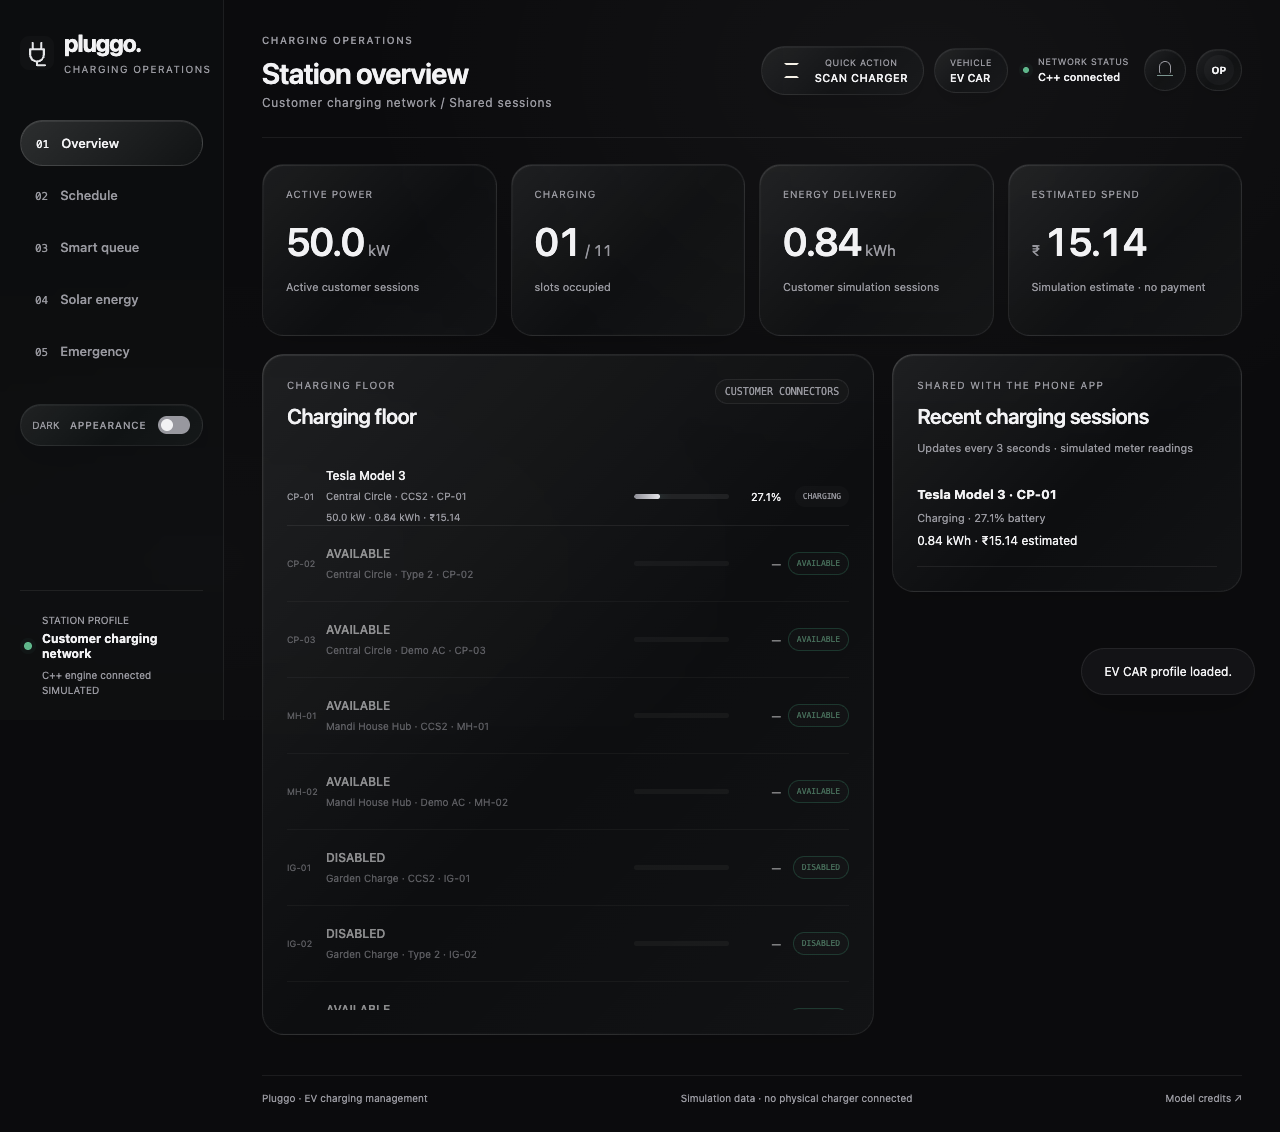
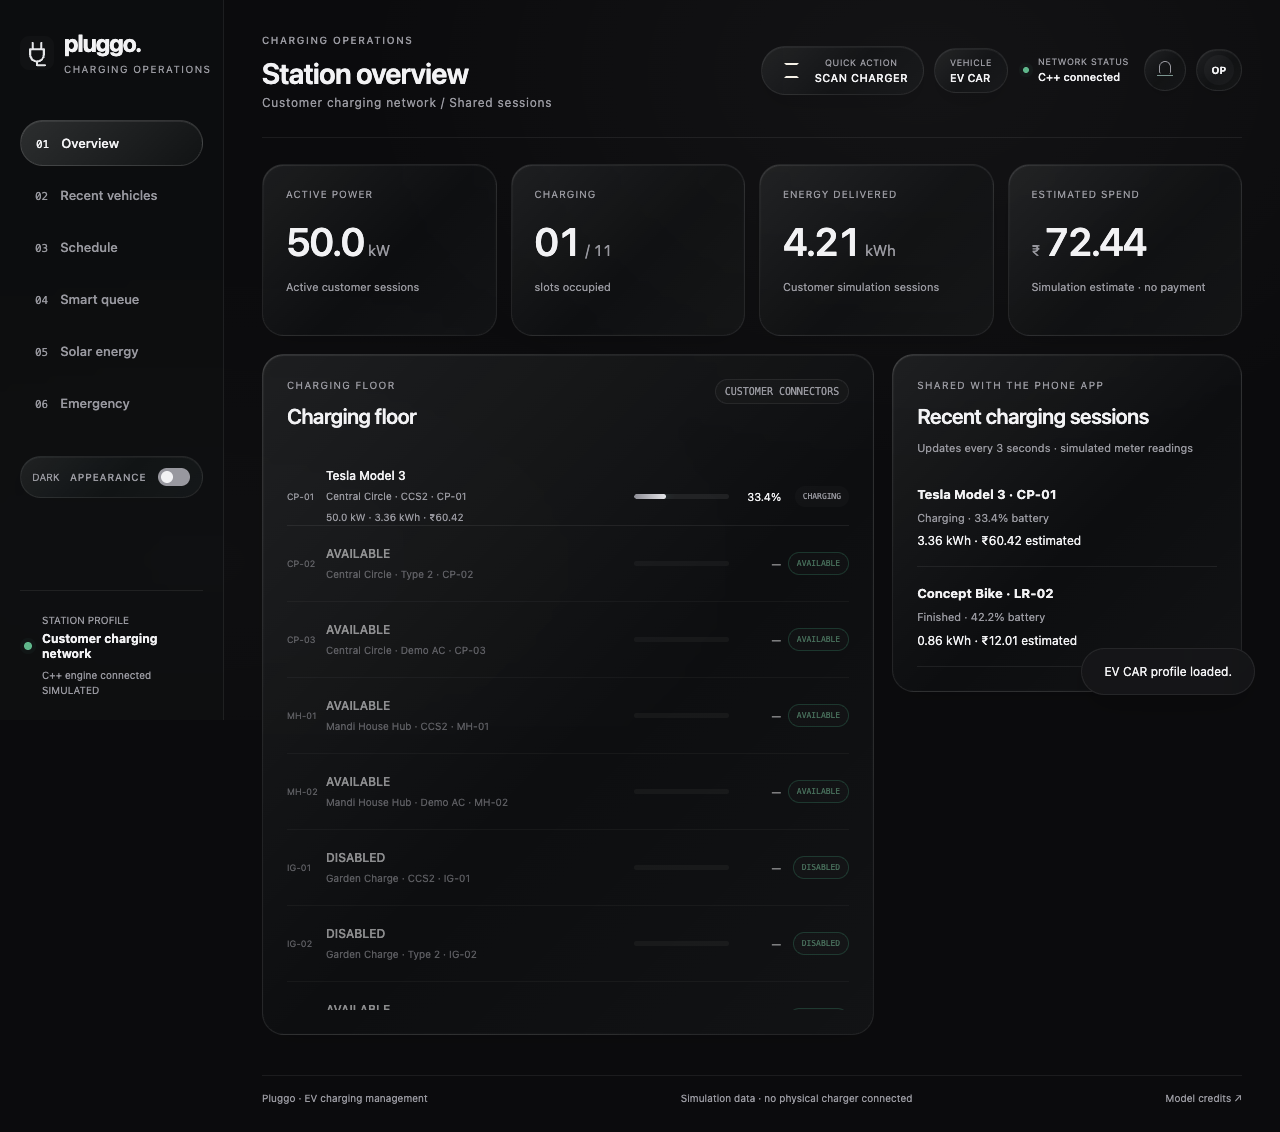
Add recent vehicles navigation and detailed charging history

diff --git a/frontend/portal.js b/frontend/portal.js
@@ -115,7 +115,21 @@ function renderSlots(slots) {
     </div>`;
   }).join("");
 }
+let recentVehicleData = {recentSessions:[],slots:[]};
+function renderRecentVehicles() {
+  const filter = $("#recentVehicleFilter").value;
+  const sessions = (recentVehicleData.recentSessions||[]).filter(s=>filter==="all"||(filter==="finished"?Boolean(s.ended):!s.ended));
+  $("#recentVehicleCount").textContent = `${sessions.length} session${sessions.length===1?"":"s"}`;
+  const time = value => value ? new Date(value).toLocaleString("en-IN",{day:"numeric",month:"short",hour:"2-digit",minute:"2-digit"}) : "In progress";
+  $("#recentVehicleList").innerHTML = sessions.map(s=>{
+    const station=(recentVehicleData.slots||[]).find(c=>c.id===s.connector)?.stationName||s.station;
+    const duration=Math.max(0,Math.round(((s.ended||Date.now())-s.started)/1000));
+    return `<article class="card recent-vehicle-card"><div class="card-heading"><div><p class="eyebrow">${escapeHTML(station)}</p><h2>${escapeHTML(s.vehicleName||s.vehicle)}</h2></div><span class="tag">${s.ended?"FINISHED":"CHARGING"}</span></div><p class="recent-session-id">${escapeHTML(s.id)}</p><dl class="recent-vehicle-details"><div><dt>Connector</dt><dd>${escapeHTML(s.connector)}</dd></div><div><dt>Battery level</dt><dd>${Number(s.currentSoc).toFixed(1)}% / ${Number(s.target)}% target</dd></div><div><dt>Energy delivered</dt><dd>${Number(s.energy).toFixed(2)} kWh</dd></div><div><dt>Estimated cost</dt><dd>₹${Number(s.cost).toFixed(2)}</dd></div><div><dt>Charging power</dt><dd>${Number(s.power).toFixed(1)} kW</dd></div><div><dt>Tariff</dt><dd>₹${Number(s.rate).toFixed(2)}/kWh</dd></div><div><dt>Started</dt><dd>${escapeHTML(time(s.started))}</dd></div><div><dt>Ended</dt><dd>${escapeHTML(time(s.ended))}</dd></div><div><dt>Elapsed time</dt><dd>${Math.floor(duration/60)}m ${duration%60}s</dd></div><div><dt>Receipt</dt><dd>${s.settled?"Checkout completed":"Not checked out"}</dd></div></dl><p class="session-sync-note">${escapeHTML(s.reason||"Charging in progress")} · Simulated charging; no payment collected.</p></article>`;
+  }).join("")||`<article class="card"><p class="queue-empty">${filter==="finished"?"No finished charging sessions yet.":filter==="active"?"No vehicles are currently charging.":"No recent vehicles yet. Start a session in the connected phone app."}</p></article>`;
+}
+$("#recentVehicleFilter").addEventListener("change",renderRecentVehicles);
 function renderStation(data) {
+  recentVehicleData=data;renderRecentVehicles();
   renderSlots(data.slots);
   $("#activePower").textContent = data.activePowerKW.toFixed(1);
   $("#energyDelivered").textContent = Number(data.energyKWh||0).toFixed(2);
@@ -157,7 +171,7 @@ $$('.nav-item').forEach(button => button.addEventListener('click', () => {
   $$('.panel').forEach(panel => panel.classList.remove('active-panel'));
   button.classList.add('active');
   $(`#${button.dataset.target}`).classList.add('active-panel');
-  const titles = { overview:"Station overview", schedule:"Charging planner", queue:"Smart waiting queue", energy:"Solar energy studio", emergency:"Emergency control" };
+  const titles = { overview:"Station overview", recent:"Recent vehicles", schedule:"Charging planner", queue:"Smart waiting queue", energy:"Solar energy studio", emergency:"Emergency control" };
   $("#currentViewTitle").textContent = titles[button.dataset.target] || "Operations center";
   $$('.nav-item').forEach(item => item.setAttribute("aria-current",item === button ? "page" : "false"));
   history.replaceState(null,"",`#${button.dataset.target}`);
@@ -363,7 +377,7 @@ $("#emergencyForm").addEventListener("submit",async event=>{
 $("#dismissBanner").addEventListener("click",()=>$("#emergencyBanner").classList.remove("active"));
 
 const initialPanel = location.hash.slice(1);
-const initialButton = document.querySelector(`.nav-item[data-target="${["overview","schedule","queue","energy","emergency"].includes(initialPanel) ? initialPanel : "overview"}"]`);
+const initialButton = document.querySelector(`.nav-item[data-target="${["overview","recent","schedule","queue","energy","emergency"].includes(initialPanel) ? initialPanel : "overview"}"]`);
 initialButton?.click();
 updateClock(); setInterval(()=>{if(!document.hidden)updateClock();},1000); previewSolar();
 Promise.all([api.health(),api.station(),api.queue()]).then(([_,station,queue])=>{setApiStatus(true);renderStation(station);renderQueue(queue.items);}).catch(()=>{setApiStatus(false);renderSlots(fallback.slots);renderQueue(fallback.queue);});

diff --git a/frontend/operator.html b/frontend/operator.html
@@ -9,7 +9,7 @@
   <link rel="stylesheet" href="styles.css">
   <link rel="stylesheet" href="theme.css">
   <link rel="stylesheet" href="portal.css">
-  <link rel="stylesheet" href="dashboard.css?v=20261104-sharedsessions">
+  <link rel="stylesheet" href="dashboard.css?v=20261104-recentvehicles">
   <link rel="icon" href="assets/pluggo.svg" type="image/svg+xml">
 </head>
 <body>
@@ -46,10 +46,11 @@
     </a>
     <nav aria-label="Dashboard navigation">
       <button class="nav-item active" data-target="overview"><span>01</span>Overview</button>
-      <button class="nav-item" data-target="schedule"><span>02</span>Schedule</button>
-      <button class="nav-item" data-target="queue"><span>03</span>Smart queue</button>
-      <button class="nav-item" data-target="energy"><span>04</span>Solar energy</button>
-      <button class="nav-item" data-target="emergency"><span>05</span>Emergency</button>
+      <button class="nav-item" data-target="recent"><span>02</span>Recent vehicles</button>
+      <button class="nav-item" data-target="schedule"><span>03</span>Schedule</button>
+      <button class="nav-item" data-target="queue"><span>04</span>Smart queue</button>
+      <button class="nav-item" data-target="energy"><span>05</span>Solar energy</button>
+      <button class="nav-item" data-target="emergency"><span>06</span>Emergency</button>
     </nav>
     <button id="themeToggle" class="theme-toggle" type="button" aria-label="Switch to light mode" aria-pressed="true">
       <span class="theme-icon">DARK</span><span class="theme-label">APPEARANCE</span><i aria-hidden="true"></i>
@@ -107,6 +108,12 @@
         </article>
         <article class="card customer-sessions-card"><p class="eyebrow">SHARED WITH THE PHONE APP</p><h2>Recent charging sessions</h2><p class="session-sync-note">Updates every 3 seconds · simulated meter readings</p><div id="customerSessionList" aria-live="polite"></div></article>
       </div>
+    </section>
+
+    <section id="recent" class="panel">
+      <div class="section-heading"><p class="eyebrow">CUSTOMER CHARGING HISTORY</p><h2>Recent vehicles</h2><p>Latest 10 sessions shared with the phone app. Costs are simulated estimates.</p></div>
+      <div class="recent-toolbar"><label for="recentVehicleFilter">Show sessions</label><select id="recentVehicleFilter"><option value="all">All recent vehicles</option><option value="finished">Finished charging</option><option value="active">Currently charging</option></select><span id="recentVehicleCount" aria-live="polite"></span></div>
+      <div id="recentVehicleList" class="recent-vehicle-grid" aria-live="polite"><article class="card"><p class="queue-empty">Loading recent vehicles…</p></article></div>
     </section>
 
     <section id="schedule" class="panel">
@@ -174,7 +181,7 @@
   <footer class="dashboard-footer"><span>Pluggo · EV charging management</span><span>Simulation data · no physical charger connected</span><a href="assets/models/CREDITS.md" target="_blank" rel="noopener">Model credits ↗</a></footer>
   <dialog id="operatorInfo" class="operator-info"><div><h2>Station operator</h2><button type="button" id="closeOperatorInfo" aria-label="Close operator details">×</button></div><p>This project dashboard demonstrates scheduling, budget control, priority queues, solar allocation and emergency handling.</p><p id="operatorConnection"></p><p>Production operator authentication is future work.</p></dialog>
   <div id="toast" class="toast" role="status" aria-live="polite"></div>
-  <script src="api-client.js?v=20261104-sharedsessions"></script>
-  <script src="portal.js?v=20261104-sharedsessions"></script>
+  <script src="api-client.js?v=20261104-recentvehicles"></script>
+  <script src="portal.js?v=20261104-recentvehicles"></script>
 </body>
 </html>

diff --git a/frontend/dashboard.css b/frontend/dashboard.css
@@ -338,3 +338,13 @@ html[data-theme] .slot-row .slot-number {white-space:nowrap;font-size:9px;}
 html[data-theme] .customer-sessions-card {align-self:start;}
 html[data-theme] .session-card .slot-list {max-height:560px;overflow-y:auto;scrollbar-width:thin;}
 html[data-theme] .slot-row .source {font-size:8px;}
+
+html[data-theme] .recent-toolbar {display:flex;align-items:center;gap:14px;flex-wrap:wrap;margin:20px 0;color:var(--d-muted);font-size:12px;}
+html[data-theme] .recent-toolbar select {width:auto;min-width:180px;border-radius:999px;padding:12px 18px;color:var(--d-text);}
+html[data-theme] .recent-vehicle-grid {display:grid;grid-template-columns:repeat(2,minmax(0,1fr));gap:20px;}
+html[data-theme] .recent-vehicle-card h2 {font-size:22px;}
+html[data-theme] .recent-session-id {font-size:10px;color:var(--d-muted);overflow-wrap:anywhere;margin:14px 0;}
+html[data-theme] .recent-vehicle-details {display:grid;grid-template-columns:repeat(2,minmax(0,1fr));gap:18px;margin:22px 0;}
+html[data-theme] .recent-vehicle-details dt {color:var(--d-muted);font-size:11px;margin-bottom:6px;}
+html[data-theme] .recent-vehicle-details dd {margin:0;font-size:13px;overflow-wrap:anywhere;}
+@media(max-width:850px){html[data-theme] .recent-vehicle-grid {grid-template-columns:minmax(0,1fr);}}

diff --git a/docs/submission/SHARED-CHARGING-DEMO.md b/docs/submission/SHARED-CHARGING-DEMO.md
@@ -18,7 +18,12 @@ operator. This remains a public college demo, not production operator login.
    estimated cost. Recent sessions shows the matching connector.
 5. Stop charging in the app. The connector becomes available, power drops, and
    the recent entry changes to Finished while retaining delivered energy/cost.
-6. Complete checkout in the app to show the simulated receipt. No money is taken.
+6. Open **Recent vehicles** in the left navigation (or `#recent`). Filter All,
+   Finished charging, or Currently charging. Cards show the latest 10 sessions:
+   vehicle/station/connector, battery/target, energy, estimated cost, tariff,
+   session power, start/end times, elapsed wall-clock time and checkout status.
+   This list updates with the same three-second snapshot as Overview.
+7. Complete checkout in the app to show the simulated receipt. No money is taken.
 
 The dashboard aggregates the five demo stations rather than mapping their sessions
 onto the unrelated A1/A2/B1/B2 planner bays. Schedule, queue and solar remain
